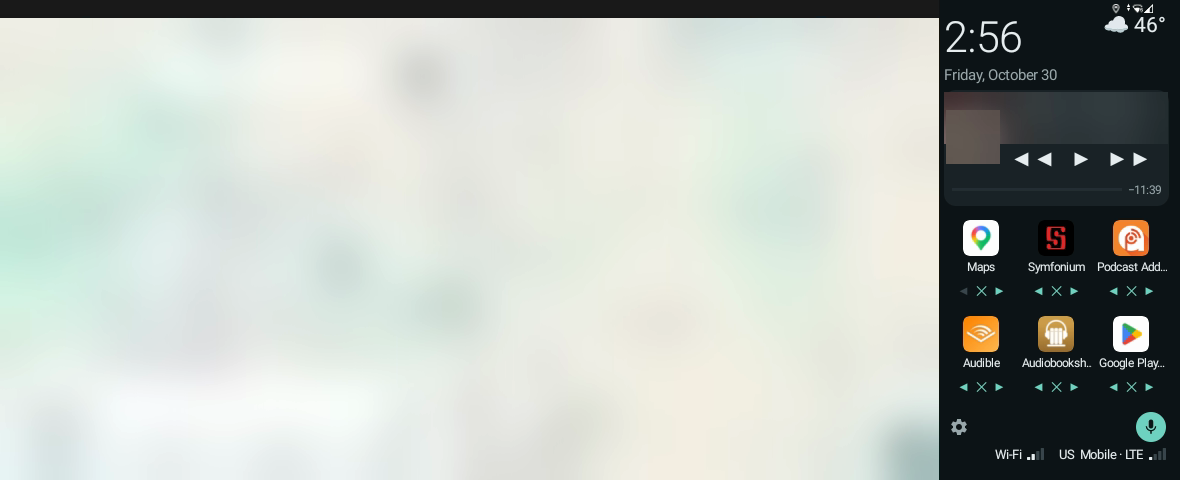
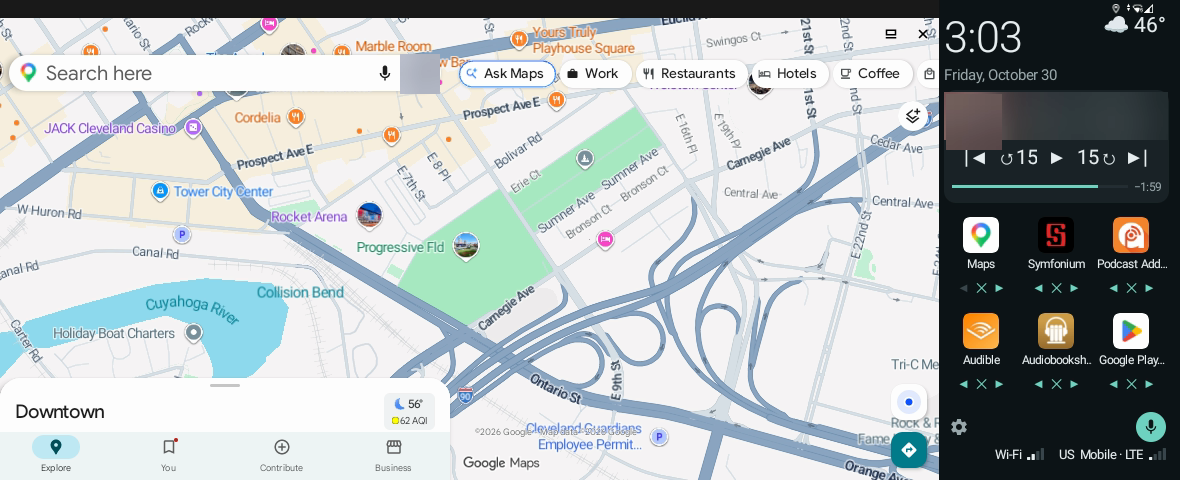
Add track and seek media buttons, Cleveland screenshots, troubleshooting
- Music card: previous/next track plus seek back/forward, with settings for
  which buttons to show (both/track/seek) and the seek amount (5-60 s).
- Retake screenshots with the map at Progressive Field, add one of an app
  in the main window.
- README: link to the MMB MAX box for 2023 MINI Cooper SE owners, a
  troubleshooting section, and a note that Android Settings hides overlays.

diff --git a/minicarhome/src/com/kynrek/minicarhome/HomeActivity.java b/minicarhome/src/com/kynrek/minicarhome/HomeActivity.java
@@ -382,6 +382,11 @@ public class HomeActivity extends Activity {
         rebuildPanel();
     }
 
+    private void setString(String key, String value) {
+        prefs.edit().putString(key, value).apply();
+        rebuildPanel();
+    }
+
     private void setSignalPlace(String place) {
         prefs.edit().putString("signals", place).apply();
         rebuildPanel();
@@ -653,6 +658,29 @@ public class HomeActivity extends Activity {
         s.addView(toggleRow("Clock & date", "show_clock"), marginTop(ViewGroup.LayoutParams.MATCH_PARENT, 12));
         s.addView(toggleRow("Media", "show_media"), marginTop(ViewGroup.LayoutParams.MATCH_PARENT, 6));
         s.addView(toggleRow("Assistant", "show_mic"), marginTop(ViewGroup.LayoutParams.MATCH_PARENT, 6));
+
+        s.addView(text("Media buttons", 14, TEXT), marginTop(ViewGroup.LayoutParams.WRAP_CONTENT, 12));
+        LinearLayout mb = new LinearLayout(this);
+        mb.setOrientation(LinearLayout.HORIZONTAL);
+        String buttons = prefs.getString("media_buttons", "both");
+        mb.addView(choice("Both", "both".equals(buttons), v -> setString("media_buttons", "both")));
+        mb.addView(choice("Track", "track".equals(buttons), v -> setString("media_buttons", "track")));
+        mb.addView(choice("Seek", "seek".equals(buttons), v -> setString("media_buttons", "seek")));
+        s.addView(mb, marginTop(ViewGroup.LayoutParams.WRAP_CONTENT, 6));
+
+        s.addView(text("Seek seconds", 14, TEXT), marginTop(ViewGroup.LayoutParams.WRAP_CONTENT, 12));
+        HorizontalScrollView seekScroll = new HorizontalScrollView(this);
+        seekScroll.setHorizontalScrollBarEnabled(false);
+        LinearLayout sk = new LinearLayout(this);
+        sk.setOrientation(LinearLayout.HORIZONTAL);
+        for (int secs : new int[]{5, 10, 15, 30, 60}) {
+            sk.addView(choice(String.valueOf(secs), secs == seekSeconds(), v -> {
+                prefs.edit().putInt("seek_seconds", secs).apply();
+                rebuildPanel();
+            }));
+        }
+        seekScroll.addView(sk);
+        s.addView(seekScroll, marginTop(ViewGroup.LayoutParams.WRAP_CONTENT, 6));
 
         s.addView(text("Signal", 14, TEXT), marginTop(ViewGroup.LayoutParams.WRAP_CONTENT, 12));
         LinearLayout sig = new LinearLayout(this);
@@ -1006,23 +1034,47 @@ public class HomeActivity extends Activity {
         info.addView(mediaTitle);
         info.addView(mediaArtist);
 
+        // Buttons: skip track (|◀ ▶|) and/or seek by the chosen seconds (↺15 15↻), per settings.
+        String buttons = prefs.getString("media_buttons", "both");
+        boolean track = !"seek".equals(buttons), seek = !"track".equals(buttons);
+        int secs = seekSeconds();
+        boolean five = track && seek;
         LinearLayout controls = new LinearLayout(this);
         controls.setOrientation(LinearLayout.HORIZONTAL);
         controls.setGravity(Gravity.CENTER_HORIZONTAL);
-        TextView prev = mediaButton("◀◀", wide);
-        playButton = mediaButton("▶", wide);
-        TextView next = mediaButton("▶▶", wide);
-        prev.setOnClickListener(v -> { if (controller != null) controller.getTransportControls().skipToPrevious(); });
-        next.setOnClickListener(v -> { if (controller != null) controller.getTransportControls().skipToNext(); });
+        playButton = mediaButton("▶", wide, five);
         playButton.setOnClickListener(v -> togglePlay());
-        controls.addView(prev);
+        if (track) {
+            TextView prev = mediaButton("|◀", wide, five);
+            prev.setContentDescription("Previous track");
+            prev.setOnClickListener(v -> { if (controller != null) controller.getTransportControls().skipToPrevious(); });
+            controls.addView(prev);
+        }
+        if (seek) {
+            TextView back = mediaButton("↺" + secs, wide, five);
+            back.setContentDescription("Back " + secs + " seconds");
+            back.setOnClickListener(v -> seekBy(-secs * 1000L));
+            controls.addView(back);
+        }
         controls.addView(playButton);
-        controls.addView(next);
+        if (seek) {
+            TextView fwd = mediaButton(secs + "↻", wide, five);
+            fwd.setContentDescription("Forward " + secs + " seconds");
+            fwd.setOnClickListener(v -> seekBy(secs * 1000L));
+            controls.addView(fwd);
+        }
+        if (track) {
+            TextView next = mediaButton("▶|", wide, five);
+            next.setContentDescription("Next track");
+            next.setOnClickListener(v -> { if (controller != null) controller.getTransportControls().skipToNext(); });
+            controls.addView(next);
+        }
 
-        if (wide) info.addView(controls);
+        // Three buttons fit beside the artwork on wide panels; five get their own row.
+        if (wide && !five) info.addView(controls);
         top.addView(info, new LinearLayout.LayoutParams(0, ViewGroup.LayoutParams.WRAP_CONTENT, 1));
         card.addView(top);
-        if (!wide) card.addView(controls, new LinearLayout.LayoutParams(ViewGroup.LayoutParams.MATCH_PARENT, ViewGroup.LayoutParams.WRAP_CONTENT));
+        if (!wide || five) card.addView(controls, new LinearLayout.LayoutParams(ViewGroup.LayoutParams.MATCH_PARENT, ViewGroup.LayoutParams.WRAP_CONTENT));
 
         // Progress bar with time remaining, shown when the app reports a track length.
         progressRow = new LinearLayout(this);
@@ -1289,6 +1341,34 @@ public class HomeActivity extends Activity {
         showProgress();
     }
 
+    private int seekSeconds() { return prefs.getInt("seek_seconds", 15); }
+
+    /** Where playback is now, extrapolated from the app's last position report. */
+    private long currentPosition(PlaybackState s) {
+        long position = s.getPosition();
+        if (s.getState() == PlaybackState.STATE_PLAYING) {
+            position += (long) ((SystemClock.elapsedRealtime() - s.getLastPositionUpdateTime()) * s.getPlaybackSpeed());
+        }
+        return Math.max(0, position);
+    }
+
+    /** Jump forward or back; uses seekTo when the app supports it, otherwise its own fast-forward/rewind. */
+    private void seekBy(long deltaMs) {
+        if (controller == null) return;
+        PlaybackState s = controller.getPlaybackState();
+        MediaMetadata m = controller.getMetadata();
+        if (s != null && (s.getActions() & PlaybackState.ACTION_SEEK_TO) != 0 && s.getPosition() >= 0) {
+            long target = Math.max(0, currentPosition(s) + deltaMs);
+            long duration = m == null ? 0 : m.getLong(MediaMetadata.METADATA_KEY_DURATION);
+            if (duration > 0) target = Math.min(duration, target);
+            controller.getTransportControls().seekTo(target);
+        } else if (deltaMs < 0) {
+            controller.getTransportControls().rewind();
+        } else {
+            controller.getTransportControls().fastForward();
+        }
+    }
+
     /** Refresh the progress bar and time remaining; repeats every second while something plays. */
     private final Runnable progressTick = this::showProgress;
 
@@ -1303,11 +1383,7 @@ public class HomeActivity extends Activity {
             return;
         }
         boolean playing = s.getState() == PlaybackState.STATE_PLAYING;
-        long position = s.getPosition();
-        if (playing) {   // the app reports position only occasionally; extrapolate from its last report
-            position += (long) ((SystemClock.elapsedRealtime() - s.getLastPositionUpdateTime()) * s.getPlaybackSpeed());
-        }
-        position = Math.max(0, Math.min(duration, position));
+        long position = Math.min(duration, currentPosition(s));   // apps report position only occasionally
         progressRow.setVisibility(View.VISIBLE);
         mediaProgress.setProgress((int) (1000 * position / duration));
         mediaRemaining.setText("\u2212" + clockTime(duration - position));
@@ -1399,10 +1475,11 @@ public class HomeActivity extends Activity {
     }
 
     /** Media transport button: bigger text and touch target than the settings controls. */
-    private TextView mediaButton(String s, boolean wide) {
-        TextView b = text(s, wide ? 24 : 22, TEXT);
+    private TextView mediaButton(String s, boolean wide, boolean five) {
+        TextView b = text(s, five ? (wide ? 20 : 16) : (wide ? 24 : 22), TEXT);
         b.setGravity(Gravity.CENTER);
-        b.setMinWidth(dp(wide ? 64 : 54));
+        b.setSingleLine(true);
+        b.setMinWidth(dp(five ? (wide ? 52 : 38) : (wide ? 64 : 54)));
         b.setMinHeight(dp(44));
         b.setPadding(0, dp(4), 0, dp(4));
         return b;

diff --git a/README.md b/README.md
@@ -1,7 +1,8 @@
 # MiniCarHome
 
 An easy-to-use, clutter-free home launcher for cars with Android "AI boxes", such as the
-**MMB MAX CarPlay AI Box for BMW 2023+ (iDrive 8/8.5/9), Android 13, 8+128GB**.
+[**MMB MAX CarPlay AI Box for BMW 2023+ (iDrive 8/8.5/9), Android 13, 8+128GB**](https://www.amazon.com/dp/B0GXK6XD3N).
+That's the box this was built and tested on, and it works with the **2023 MINI Cooper SE**.
 
 Your navigation app runs live in a big window, and a slim panel beside it holds the clock, weather,
 what's playing and the apps you actually use in the car. No ads, promo tiles or floating buttons.
@@ -11,8 +12,8 @@ at **1180 × 480 pixels (120 dpi)**. Most of the layout adapts to the screen, bu
 tuned there. (The unit it was built on reports Android 14.)
 
 ![Home screen](docs/screenshots/home.png)
-<sub>Home screen: Google Maps in the main window (blurred here for privacy), the panel on the right with
-weather, now playing, shortcuts and signal.</sub>
+<sub>Home screen: Google Maps in the main window, the panel on the right with weather, now playing,
+shortcuts and signal. (Account photo and track details blurred.)</sub>
 
 ## Features
 
@@ -27,11 +28,18 @@ panel still beside it. Open another app and it replaces the previous one. **Home
 Maps keeps running underneath the whole time, so you don't lose your route. (Turn this off in settings
 to open apps full screen instead.)
 
+![An app in the main window](docs/screenshots/pane.png)
+<sub>The Play Store opened from the panel, running in the main window.</sub>
+
+Android's own Settings app is the one exception: Android hides every app's overlay windows while it's
+in front, so the panel disappears until you leave Settings.
+
 ### The panel
 - **Clock and date**, with **weather** beside it (current conditions, high and low) when the panel is
   3 or more icons wide.
-- **Now playing**: artwork, title, play/pause/skip, a progress bar and time remaining, for whatever is
-  playing (Podcast Addict, Audible, Spotify, Symfonium…). Tap the card to open that app.
+- **Now playing**: artwork, title, a progress bar and time remaining, and controls for whatever is
+  playing (Podcast Addict, Audible, Spotify, Symfonium…): previous/next track (|◀ ▶|), seek back and
+  forward (↺15 15↻) and play/pause. Tap the card to open that app.
 - **Shortcuts** to your car apps, scrolling if they don't fit, plus **All apps**.
 - **Assistant button**: starts Google's voice assistant ("navigate to…", "call…").
 - **Wi-Fi and cell signal** with bars, plus the carrier and network type.
@@ -44,6 +52,8 @@ to open apps full screen instead.)
 | Main display app | Any app; Google Maps by default |
 | Open apps in main window | On / off |
 | Clock & date, Media, Assistant | Each on / off |
+| Media buttons | Both (track + seek, default), Track only or Seek only |
+| Seek seconds | 5, 10, 15 (default), 30 or 60 |
 | Signal | Off, top or bottom |
 | Edit shortcuts | Move (◀ ▶), remove (✕) and add (+, from the full app list) |
 | Reset shortcuts | Back to the default list |
@@ -106,6 +116,19 @@ adb shell pm disable-user --user 0 com.applepie.floatingball   # optional: hide 
 
 Back to the stock home screen:
 `adb shell cmd package set-home-activity com.android.launcher3/.uioverrides.QuickstepLauncher`
+
+## Troubleshooting
+
+**Tip for the MMB BMW box (from its support instructions):** after connecting the box to a power
+source, use your phone to search for the Bluetooth device named **"JoyeBox"**, then dial
+**#135177**. The LED indicator light switches from steady white to steady red.
+
+**The box keeps rebooting and ADB drops.** If the box can reach your car over Bluetooth and Wi-Fi, it
+starts a wireless CarPlay session; when that link drops, the box's CarPlay service reboots Android,
+which also turns Wireless debugging off. Tap **Wireless Debug** (Box Tools) to turn it back on.
+
+**An app opens full screen instead of in the main window.** Android won't move a window that's already
+open. Swipe the app away in Recents once and it will open in the main window from then on.
 
 ## Build
 
